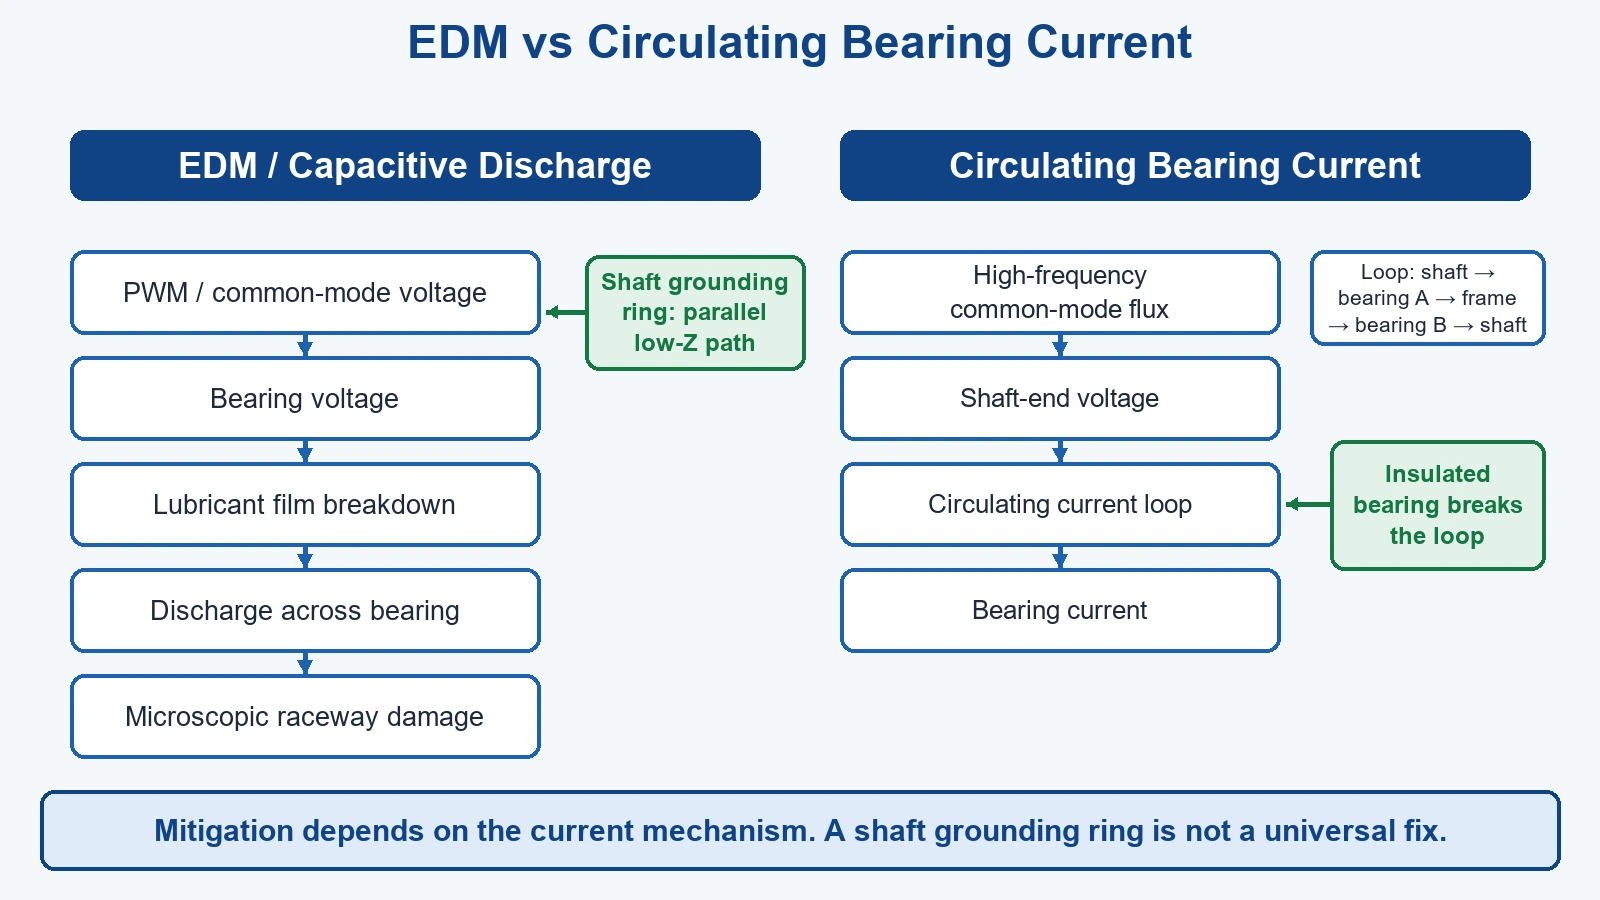
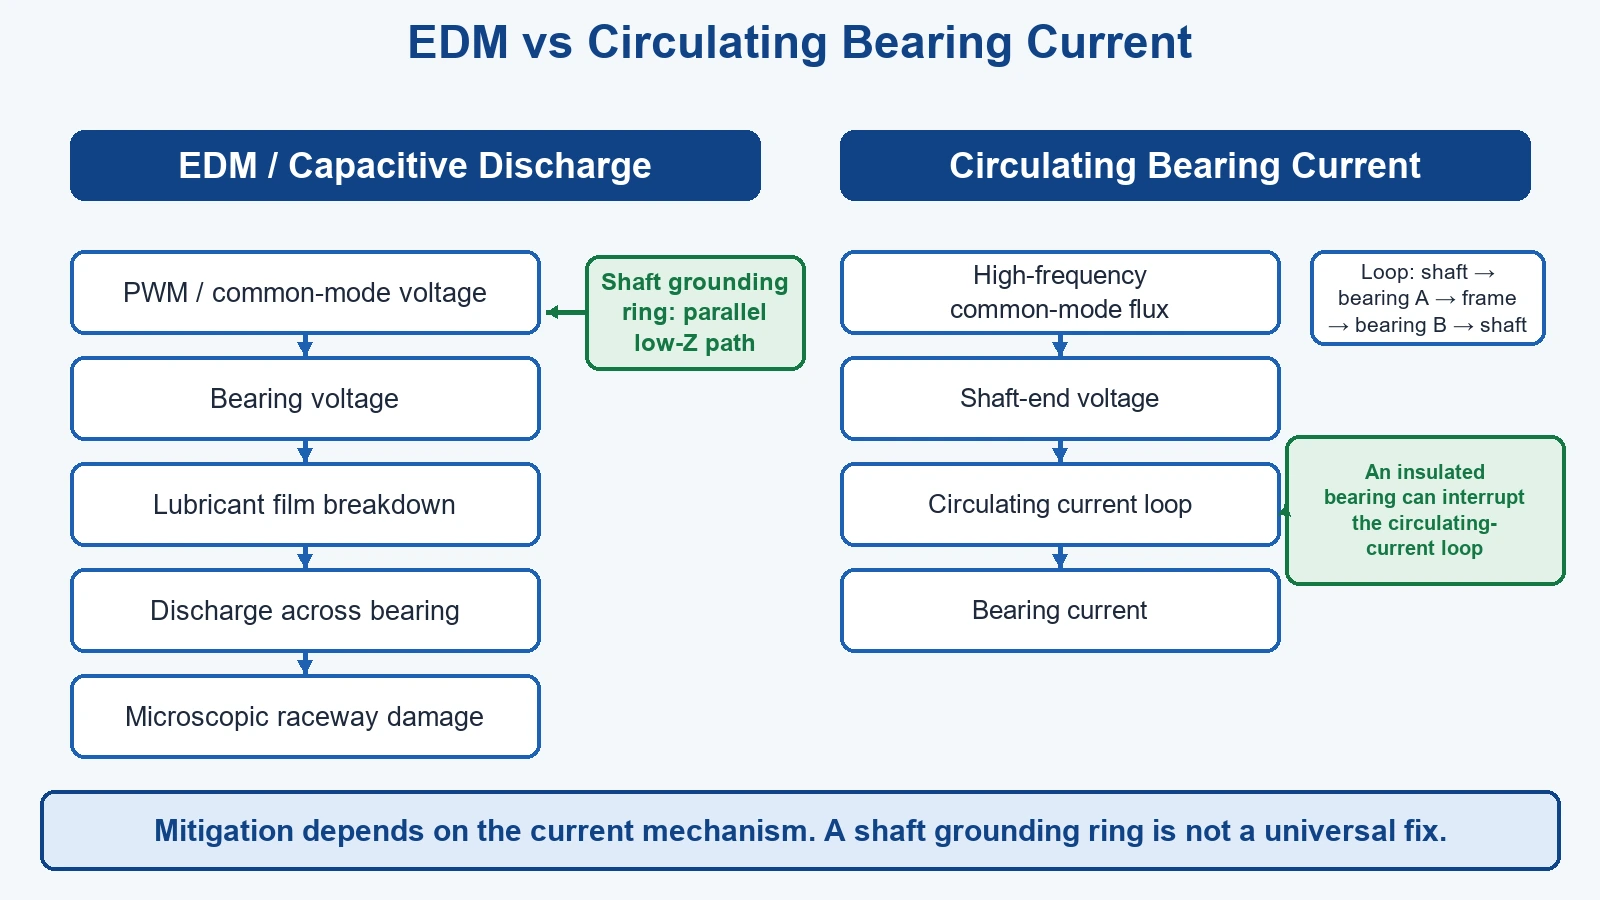
fix(art1): micro-fix damage-pattern terminology and insulated-bearing wording
- IMAGE-04 labels: Micropitting -> Micro-cratering / Electrical pitting;
  Frosting -> Frosted running track; Fluting -> Fluting / Washboarding (secondary)
- IMAGE-04 green note: 'Possible damage appearances - severity and
  progression vary by application'
- EN/ZH alt+caption updated to match new terminology (image block only,
  article body unchanged)
- IMAGE-03 chip: 'An insulated bearing can interrupt the circulating-current loop'

Changed region(s): [[0.7812, 0.4667, 1.0, 0.6533]]

diff --git a/src/data/mock/articles.ts b/src/data/mock/articles.ts
@@ -171,8 +171,8 @@ export const articles: ArticleRecord[] = [
           {
             type: "image",
             src: "/images/articles/electrical-bearing-damage-progression.webp",
-            alt: "Possible bearing damage patterns from repeated electrical discharge: surface damage such as micropitting, frosting, or fluting, which can lead to noise, vibration, and premature bearing failure",
-            caption: "Possible damage patterns from repeated electrical discharge — micropitting, frosting, and fluting are alternative patterns, not a mandatory sequence.",
+            alt: "Possible bearing damage appearances from repeated electrical discharge: micro-cratering / electrical pitting, frosted running tracks, or fluting / washboarding, which can lead to noise, vibration, and premature bearing failure",
+            caption: "Repeated electrical discharge can produce micro-cratering; frosted tracks and fluting may develop depending on exposure and operating conditions.",
             width: 1600,
             height: 900,
           },
@@ -404,8 +404,8 @@ export const articles: ArticleRecord[] = [
           {
             type: "image",
             src: "/images/articles/electrical-bearing-damage-progression.webp",
-            alt: "反复电气放电可能造成的轴承损伤形态：微点蚀、霜化或搓板纹等表面损伤，并可能导致噪声、振动与轴承过早失效",
-            caption: "反复放电可能造成的损伤形态——微点蚀、霜化、搓板纹为可选形态，并非必然的先后顺序。",
+            alt: "反复电气放电可能造成的轴承损伤外观：微坑蚀/电气点蚀、霜化运行轨道或搓板纹，并可能导致噪声、振动与轴承过早失效",
+            caption: "反复电气放电可能产生微坑蚀（电气点蚀）；霜化运行轨道与搓板纹是否出现，取决于暴露程度与运行工况。",
             width: 1600,
             height: 900,
           },
